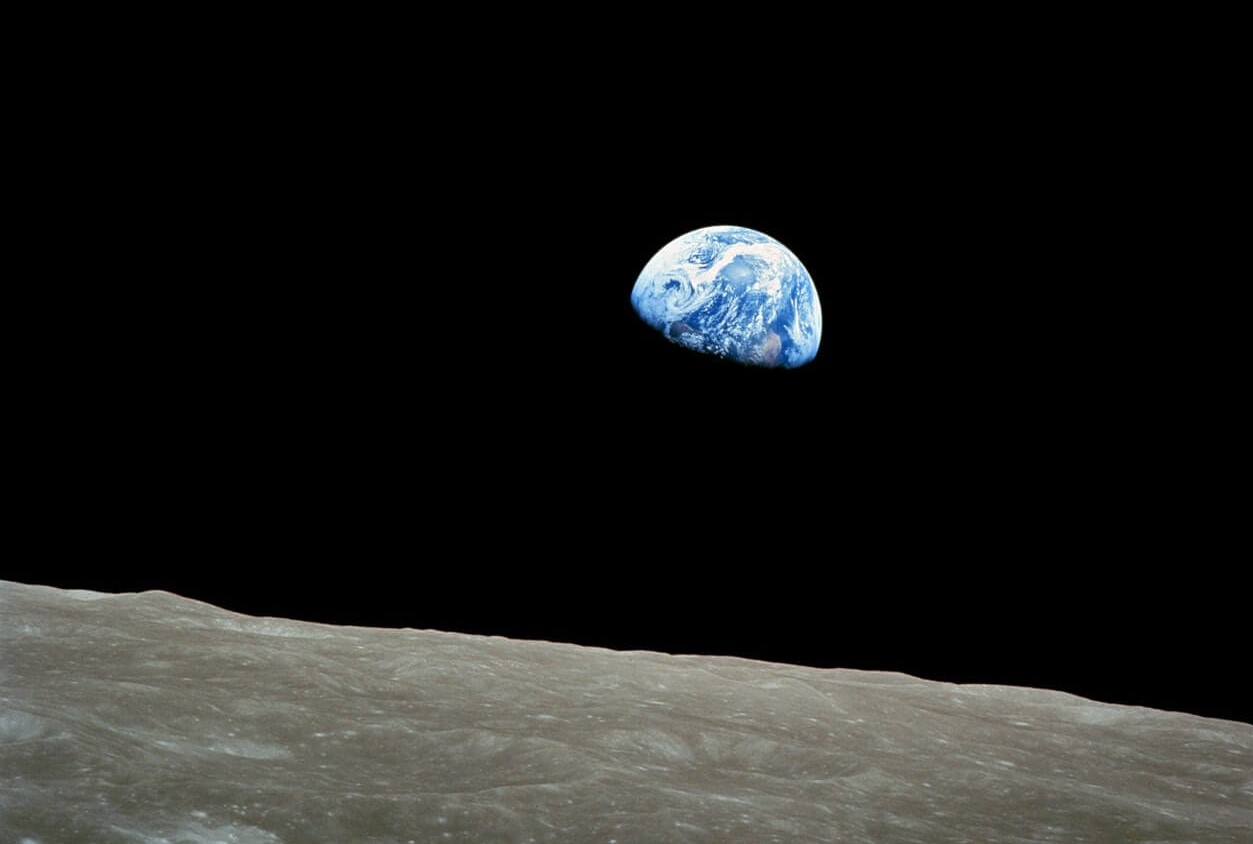
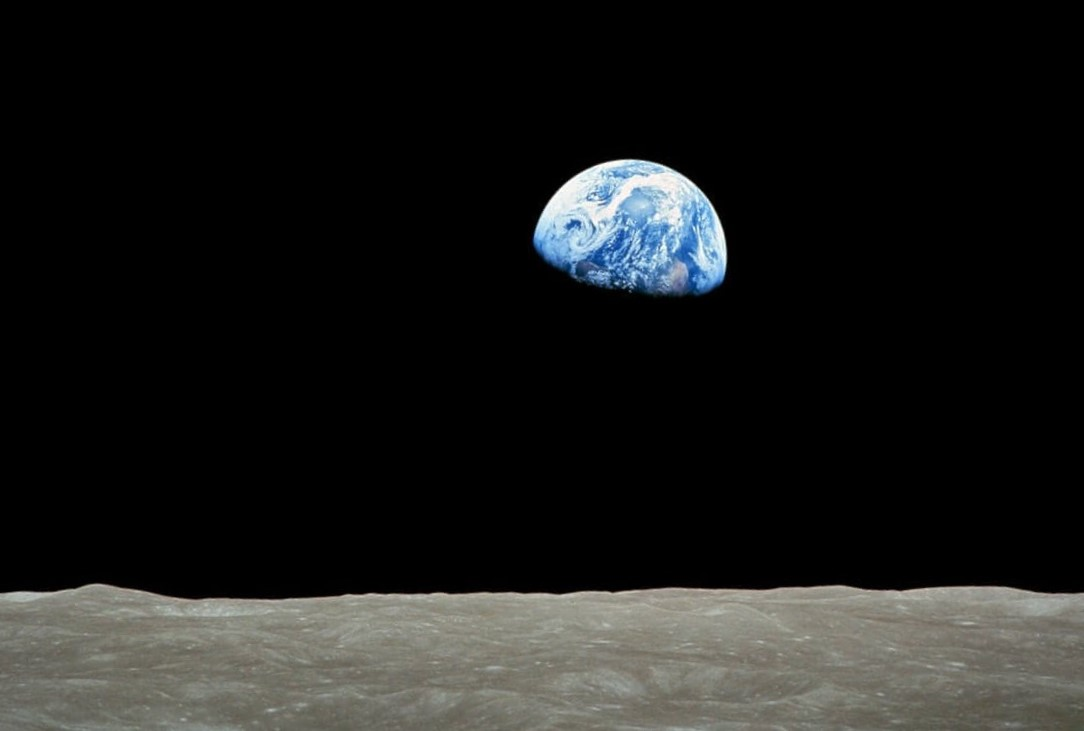
fix: carousel imags height reduced for md and small screesn

diff --git a/assets/css/style.css b/assets/css/style.css
@@ -566,6 +566,12 @@ media query to adjust height of figcaption, so no overflow with indicators.
 H1 hidden on sm screens affecting layout and for layout of footer 
 --*/
 @media screen and (max-width: 992px) {
+
+  img.scaled,
+  .carousel-control-next,
+  .carousel-control-prev{
+    height: 45vh;
+  }
   figcaption {
     height: 150px;
   }
@@ -584,6 +590,9 @@ H1 hidden on sm screens affecting layout and for layout of footer
 /* Media query applies to small and x-samll screens. Change display of carousel when H1 is hidden*/
 @media screen and (max-width: 768px) {
 
+  img.scaled{
+    height: 40vh;
+  }
   /* to give carousel section more spacing under navbar when heading is hidden */
   .carousel-inner {
     margin-top: 10px;
@@ -601,12 +610,14 @@ H1 hidden on sm screens affecting layout and for layout of footer
     margin: 00;
     width: 20px;
     padding: 0;
+    height: 40vh;
   }
 
   .carousel-control-prev {
     width: 20px;
     margin: 0;
     padding: 0;
+    height: 40vh;
   }
 
   /* Adjust caption under images on learn-more page, for size and spacing */
